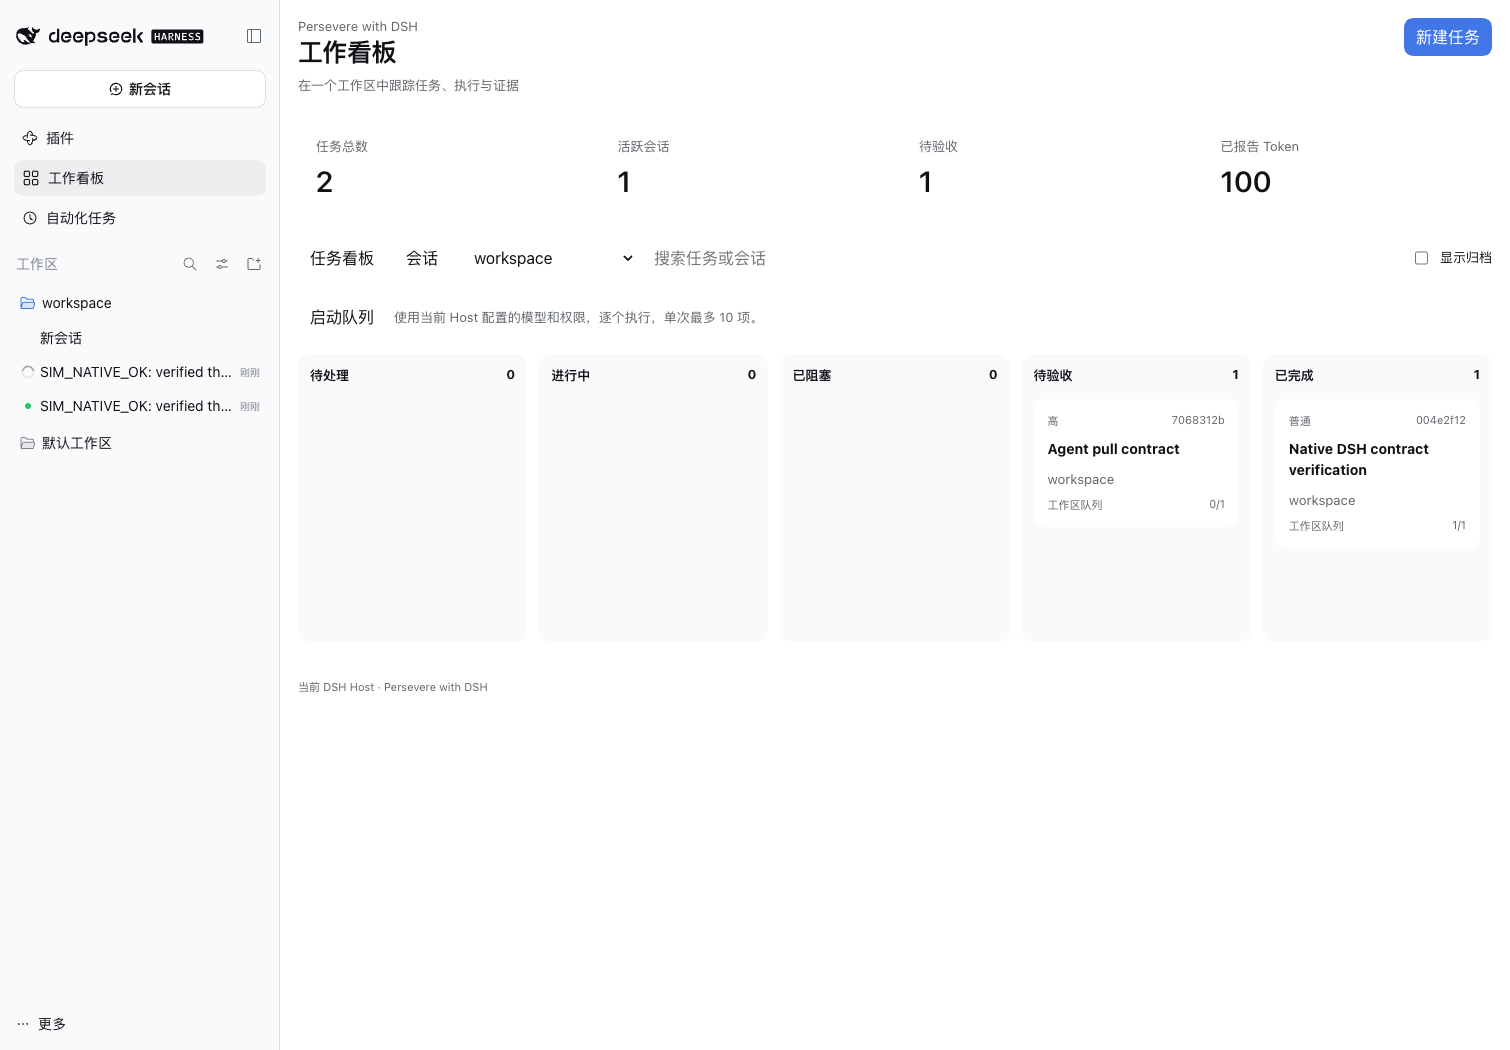
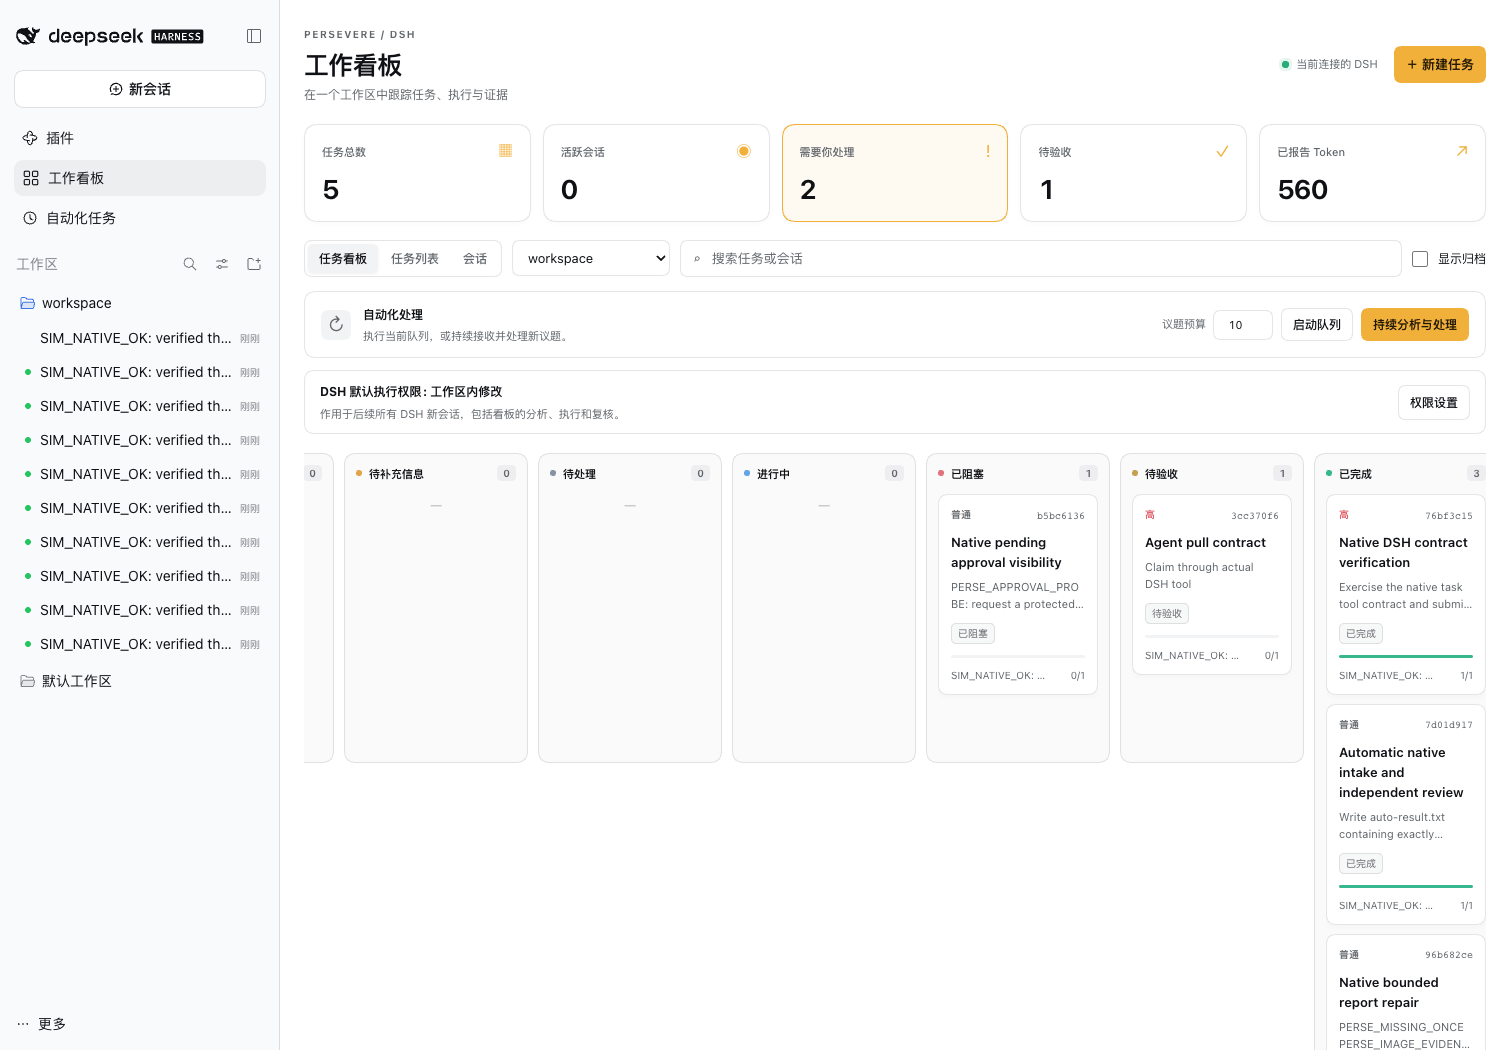
Record 1.4.1 Lab, native and live acceptance evidence
- Lab: 23 scenarios x 2 repeats, 28 assertions per repeat.
- Native: 22 assertions on the packed tarball against real DSH 0.2.1-rc.2.
- Live: 17 assertions with real deepseek-official/deepseek-flash and exact artifact hashes.
- Add attention, permission-settings, workflow-recovery and rich-evidence rows to the acceptance map.
- Refresh the retained dashboard screenshot.

diff --git a/docs/hermex-parity.md b/docs/hermex-parity.md
@@ -37,8 +37,22 @@ Approval coverage was missing before 1.3: the Lab used the wrong pending kind (`
 | Deterministic execution control  | Hold/release analysis, execution or review; pause while an issue is active                                                                    | automation scenario; active issue finishes, later issue stays queued                                                                |
 | Real protocol fixtures           | Actual DSH Gateway snapshot, pinned runtime version, capture provenance and SHA256                                                            | fixtures/manifest.json + fixtures.test.mjs                                                                                          |
 | Isolated real backend + fake LLM | Tarball-installed DSH native lane; only model adapter is deterministic                                                                        | Native artifact-binding receipt + actual Session/tool ledger                                                                        |
-| Real model journey               | Native triage, actual shell result, distinct reviewer Session and exact file gate                                                             | Live lane + in-app browser observation                                                                                              |
+| Real model journey               | Native triage, actual shell result, distinct reviewer Session and exact file gate                                                             | Live lane + retained native screenshots                                                                                             |
 | Managed simulator runner         | Assigned temporary state, inherited checkout lock, bounded phases, exact owned process-group cleanup, focused/repeated cases, failure bundles | scripts/sim + process ownership tests                                                                                               |
 | Express/staged task management   | Analysis routing, manual flag, opt-in watcher, activation budget, three completion modes                                                      | analysis-decisions / automation / execution-failure / verification-failure / recovery                                               |
+| Native attention awareness       | Pending approval/question/plan review surfaced with workspace scoping without rewriting task lifecycle                                       | attention scenario + native pending-approval hold/reject check                                                                      |
+| DSH default permissions          | Official catalog and Settings Remote, explicit confirmation, revision conflict, read-only/unavailable failure                                  | permission-settings scenario + native read-only Settings check                                                                      |
+| Workflow recovery                | One bounded report reminder, task-local failure isolation, explicit owner retry and visible completion gates                                  | workflow-recovery scenario + native reasoning-only/recovery check                                                                   |
+| Rich review evidence             | Structured execution/review sections, per-criterion results and bounded workspace image preview                                              | workflow-recovery scenario + native image readback check                                                                            |
 
 All 23 cases run twice without external inference in the full Lab gate. This establishes comparable test mechanisms and supported dashboard workflow coverage, not Hermex feature parity or proof of every possible interleaving. iOS targets, multi-server account management, cron, worker-log transport and GitHub Issue synchronization are outside this plugin's surface. Independent model review is fallible; exact file checks verify approved artifacts at the time of completion.
+
+## 1.4.1 evidence (2026-10-19)
+
+| Lane   | Run                  | Result                                                                                                                     |
+| ------ | -------------------- | -------------------------------------------------------------------------------------------------------------------------- |
+| Lab    | `20261019-185223-f81c3d` | 23 scenarios × 2 repeats, 28 assertions per repeat, cleanup passed, synthetic model only                               |
+| Native | `20261019-190014-3da978` | 22 assertions passed against the packed tarball, real DSH 0.2.1-rc.2 Host/Sessions/tools, deterministic model, cleanup passed |
+| Live   | `20261019-190044-43170a` | 17 assertions passed with real `deepseek-official/deepseek-flash`; exact artifact SHA256 `63fb4e53…`, cleanup passed    |
+
+Source commit `118269a` was clean for all three runs; package SHA256 `7d43a4ba…` and installed-artifact binding `e148a0a9…` are identical in the native and live receipts. `npm test` passed 37 domain/contract tests, the process-ownership suite passed 6 tests, and `npm run check` passed inside both packed lanes. Browser journeys used the host Chrome 155 channel because Playwright-managed Chromium was absent on this machine; every scenario has behavioral assertions, not screenshot-only checks. Full receipts are in [acceptance.json](../evidence/acceptance.json) and each run's `summary.json` / `coverage.json` under `.build/sim/<run-id>/`.
